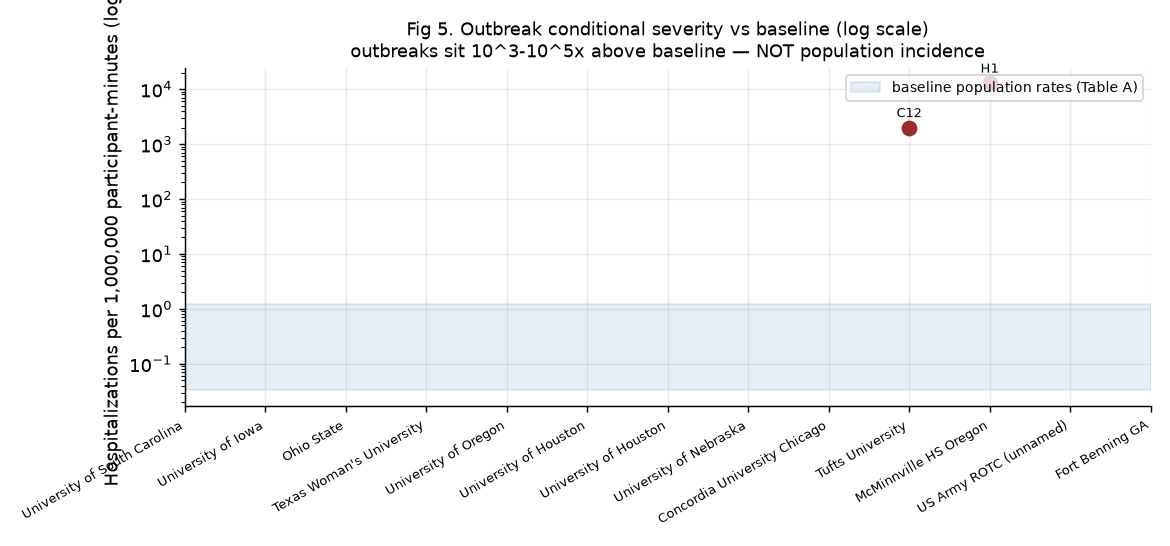
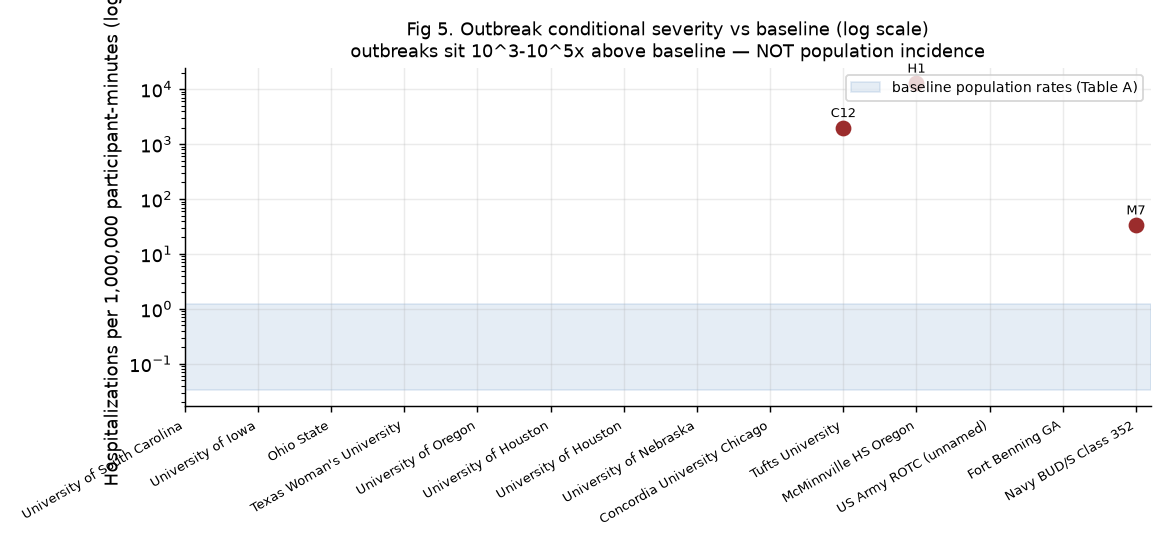
Add comprehensive RESULTS.md report + BUD/S data; regenerate outputs
- RESULTS.md: executive summary, Tables A-D, mortality comparison, sport ranking,
  outbreak conditional-severity, evidence grading/biases, and the ten
  plain-English conclusions with numbers
- sources/ledger + outbreaks.csv: BUD/S Class 352 Hell Week (2022) as military
  extreme-conditioning row
- regenerated analysis/output and figures

Claude-Session: https://claude.ai/code/session_01Jimj5pffNqwXVh7in3aQVU

diff --git a/RESULTS.md b/RESULTS.md
@@ -1,0 +1,347 @@
+# Acute Exertional Medical Events in NCAA Athletes vs. U.S. Military Trainees
+## Systematic Review & Quantitative Synthesis — Results and Conclusions
+
+*Companion documents:* `METHODS.md` (pre-registered methods), `sources/source_ledger.md`
+(every figure traced to a primary source), `data/*.csv` (machine-readable dataset),
+`analysis/*.py` (reproducible code), `figures/*.png` (visualizations).
+
+---
+
+## Executive summary
+
+**The headline finding is a reframing.** Compared per unit of *actual strenuous
+training time*, the enormous apparent gap between military recruits and NCAA
+athletes largely collapses. Raw per-person-year comparisons make military basic
+training look ~13× more dangerous than NCAA athletics for exertional death; but a
+recruit accumulates roughly **3–4× more strenuous-training minutes per year** than
+a collegiate athlete, so once you normalize to participant-minutes the ratio falls
+to between **~1× and ~5×**, and under the most defensible "all strenuous activity"
+denominator the two populations are **statistically indistinguishable** for serious
+exertional events (rate ratio 0.86–1.44; Table D, Fig 6).
+
+Three robust conclusions survive every sensitivity assumption:
+
+1. **Serious exertional events are rare in both populations** and, per training-minute,
+   of the *same order of magnitude* (~0.03–0.14 serious events per 1,000,000
+   participant-minutes). Neither population is dramatically safer than the other
+   once exposure is measured correctly.
+2. **Within the NCAA, football is a genuine exertional-illness outlier; lacrosse is
+   not.** Football's per-minute EHI rate (~1.05/10⁶ min) is 2–13× every other sport.
+   Men's and women's lacrosse rank at or near the *bottom* — their reputation comes
+   from a single publicized 2024 outbreak, not baseline risk.
+3. **Publicized "hell week" hospital clusters are extreme outliers, not baseline.**
+   Outbreak hospitalization rates run **10³–10⁵× above** either population's baseline
+   (Fig 5). They are selected-on-outcome and must never be read as population incidence.
+
+All estimates are graded A (direct) to D (weak). The cleanest comparison
+(mortality, in matched person-year units) is Grade A; the per-minute conversions
+are Grade B–C because they require cited but uncertain duration assumptions, which
+we propagate by Monte Carlo rather than hide.
+
+---
+
+## 1. The central methodological result: why the denominator changes the answer
+
+The two surveillance systems measure fundamentally different denominators —
+NCAA uses **athlete-exposures** (one athlete, one session), the military uses
+**person-years** — and neither is training-minutes. Our core contribution is to
+convert both, with propagated uncertainty, to **events per 1,000,000
+participant-minutes of strenuous physical training**.
+
+The load-bearing empirical facts (all cited, `S06`):
+
+| Quantity | Value | Source |
+|---|---|---|
+| Army BCT measured MVPA | 168 moderate + 14 vigorous ≈ **182 min/day** | Alemany 2022 |
+| Army IET measured MVPA | **~172 min/day** (1,202 min/wk) | McAdam 2018 |
+| Army formal PT session | **45–60 min, 5–6×/wk** | TC 3-22.20 |
+| NCAA football practice (measured) | **142 ± 16 min** (total session, incl. idle) | DeMartini 2011 |
+| Recruit strenuous min / recruit-year | **~57,000** (all MVPA) or **~15,000** (formal PT only) | derived, S06 |
+| NCAA athlete strenuous min / athlete-year | **~16,000–21,000** (total session) | derived, S06 |
+
+A recruit trains **nearly full-time** during their course; an NCAA athlete trains
+**part-time and seasonally**. That single fact — not any difference in intrinsic
+danger — drives most of the raw per-person gap.
+
+**Two unavoidable caveats, both flagged throughout:**
+- Military MVPA excludes idle time; NCAA session minutes include it (no NCAA sport
+  has published %-above-threshold data). So NCAA per-minute rates are, if anything,
+  *under*-stated relative to military — biasing NCAA toward *looking safer*. Our
+  NCAA-is-comparable-or-higher conclusions are therefore **conservative**.
+- Doctrine/schedule-based military denominators are badly biased low: the USMC POI
+  lists 46.3 miles of run/hike but recruits actually cover **657.6 miles** (~14×;
+  Kloss 2024). We use **measured** activity, never schedules.
+
+---
+
+## 2. Table A — Primary comparison (serious events per 1,000,000 participant-minutes)
+
+Serious = requiring hospitalization or urgent emergency transport.
+Point estimate at central minutes; 95% CI includes duration + Poisson uncertainty
+(Monte Carlo). Full table: `analysis/output/tableA_primary.csv`; Fig 1.
+
+| Population | Events | Denominator basis | Serious events / 10⁶ min (95% CI) | Grade |
+|---|---|---|---|---|
+| NCAA all-sports — EHI emergency transport | 19 | 4.91M AE × session-min | **0.033 (0.019–0.055)** | B |
+| NCAA football — EHI emergency transport | 9 | 1.12M AE × session-min | **0.056 (0.026–0.104)** | B |
+| Military recruit — heat stroke + rhabdo-hosp (all-MVPA denom) | 49 | 23,150 recruit-yr × MVPA min | **0.041 (0.029–0.057)** | B |
+| Military recruit — heat stroke + rhabdo-hosp (formal-PT denom) | 49 | 23,150 recruit-yr × PT min | **0.140 (0.096–0.205)** | B |
+| Military recruit (Army BCT) — *all* heat illness (all-MVPA) | 1,210 | 3.36M person-wk (observed) × MVPA | **0.36 (0.30–0.44)** | A |
+| Military recruit (Army BCT) — *all* heat illness (formal-PT) | 1,210 | 3.36M person-wk (observed) × PT | **1.23 (1.00–1.59)** | A |
+
+**Reading:** For the *serious* endpoint, NCAA (0.033–0.056) and military recruits
+(0.041 under all-MVPA) overlap. The military rate exceeds NCAA only when you count
+*formal PT minutes alone* (0.140) — i.e., when you credit the military with far
+fewer minutes than they actually train. The one Grade-A observed-denominator row
+(Barnes BCT) is *all* heat illness (mostly mild heat exhaustion), not serious, and
+is not diagnosis-matched to the NCAA serious row.
+
+---
+
+## 3. Mortality — the cleanest comparison (matched person-year units, Grade A)
+
+Deaths are reported in the *same* units by both literatures (per 100,000
+person/athlete-years), so no minute conversion is needed. `analysis/output/mortality_peryear.csv`.
+
+| Population | Deaths | Person-years | Rate /100,000 yr (95% CI) |
+|---|---|---|---|
+| NCAA all-sport exertional SCD | 72 | 9.11M | 0.79 (0.62–1.00) |
+| NCAA all-sport heat-illness death | 3 | 4.24M | 0.07 (0.02–0.21) |
+| NCAA all-sport sickling death | 10 | 4.24M | 0.24 (0.11–0.43) |
+| **NCAA all-sport total exertional death** | — | — | **~1.1** |
+| NCAA football non-traumatic death (100% in conditioning) | 34 | 1.29M | 2.65 (1.83–3.70) |
+| **Military recruit exercise-related death (1977–2001)** | 141 | 969k | **14.5 (12.2–17.2)** |
+| Military recruit non-traumatic sudden death (1977–2001) | 126 | 969k | 13.0 (10.8–15.5) |
+| Military recruit EHI death (1977–2001) | 30 | 969k | 3.10 (2.09–4.42) |
+
+**Per person-year, military recruit exertional death (~14.5) is ~5× NCAA football
+(2.65) and ~13× NCAA all-sport (~1.1).** But two corrections are essential:
+- This military figure is the **1977–2001 regime** (pre-universal-SCT-screening,
+  pre-precautions). The modern regime is far safer: USAF BMT 2008–2020 = **1.08 per
+  100,000 trainees** (Butler 2023), ≈7× lower.
+- Converted to **per training-minute** (recruits train ~3.5× more min/yr), the
+  military:NCAA-football death ratio falls to **RR 2.4 (all-MVPA denom)** or 8.1
+  (formal-PT denom) — see §4.
+
+Per participant-minute (Monte Carlo): military recruit exercise death (old regime,
+all-MVPA) **0.0028/10⁶ min** vs NCAA football conditioning death **0.0012/10⁶ min**
+vs NCAA all-sport exertional SCD **0.0005/10⁶ min**.
+
+---
+
+## 4. Key rate ratios (per participant-minute)
+
+`analysis/output/summary.json`; Fig 2. RR > 1 means the military rate is higher
+(NCAA safer per minute).
+
+| Comparison | RR (95% CI) | Interpretation |
+|---|---|---|
+| Mil recruit death (old, all-MVPA) ÷ NCAA football death | **2.4 (1.3–4.1)** | military ~2× per active minute |
+| Mil recruit death (old, formal-PT) ÷ NCAA football death | 8.1 (4.4–14.5) | if only PT minutes counted |
+| Mil recruit serious morbidity (all-MVPA) ÷ NCAA EHI transport | **1.3 (0.7–2.4)** | indistinguishable |
+| Mil recruit serious morbidity (formal-PT) ÷ NCAA EHI transport | 4.3 (2.3–8.4) | if only PT minutes counted |
+
+The confidence intervals cross or approach 1 under the all-MVPA denominator —
+the honest statement is that **per active training-minute the two populations are
+within a small factor of each other, and which is "higher" depends on the
+denominator definition, not on a clear biological difference.**
+
+---
+
+## 5. Table D — Sensitivity (the conclusion does not hinge on one assumption)
+
+`analysis/output/tableD_sensitivity.csv`; Fig 6. Serious-event RR (military ÷ NCAA)
+across the pre-specified duration grid:
+
+| NCAA min/AE | Military denom = formal PT | Military denom = all MVPA |
+|---|---|---|
+| 90 | 3.24 | **0.86** |
+| 120 | 4.32 | **1.15** |
+| 150 | 5.40 | **1.44** |
+
+**The entire disagreement in the literature is contained in this 6-cell table.**
+If you count only formal PT for the military (crediting them the fewest minutes),
+military looks 3–5× worse. If you count all measured strenuous activity, the two are
+equal (0.86–1.44). No single number is "the" answer; the defensible statement is the
+range and its driver.
+
+---
+
+## 6. NCAA sport ranking — is football/lacrosse really the outlier?
+
+`analysis/output/sport_ranking.csv`; Fig 3. EHI per 1,000,000 participant-minutes:
+
+| Rank | Sport | EHI/10⁶ min (95% CI) |
+|---|---|---|
+| 1 | **Football** | **1.05 (0.83–1.36)** |
+| 2 | Women's outdoor track | 0.51 (0.20–1.09) |
+| 3 | Men's cross-country | 0.43 (0.11–1.14) |
+| 4 | Men's basketball | 0.40 (0.21–0.67) |
+| 5 | Men's soccer | 0.34 (0.13–0.80) |
+| 6 | Women's soccer | 0.33 (0.14–0.72) |
+| 7 | Men's wrestling | 0.26 (0.07–0.69) |
+| 8 | **Women's lacrosse** | **0.08 (0.01–0.34)** |
+
+**Football is the unambiguous NCAA exertional-illness outlier** — driven by preseason
+(football preseason practice IRR 5.8 vs other periods; hottest-state preseason
+practice reaches 92/100,000 AE). By *catastrophic/fatal* exertional events (NCCSIR),
+the ranking shifts: **men's basketball has the highest fatal exertional rate (6.34/100,000
+athlete-seasons)** — mostly sudden cardiac death — followed by football (3.10),
+swimming (2.55), wrestling (2.39). **Lacrosse ranks near the bottom on every metric;
+its media prominence is entirely attributable to the 2024 Tufts outbreak (§7), not
+to baseline risk.**
+
+---
+
+## 7. Table C — Outbreaks: conditional severity, NOT population incidence
+
+`analysis/output/tableC_outbreaks.csv`; Fig 5. These events were *selected because an
+outbreak occurred*; the rates below answer "given that an extreme-conditioning outbreak
+happened, how severe was it?" — never "how common is this?"
+
+| Incident | Exposed | Hospitalized | Attack rate | Hosp / 10⁶ workout-min |
+|---|---|---|---|---|
+| Tufts men's lacrosse 2024 (~250 burpees, 75 min) | 61 | 9 | 0.148 | **1,967** |
+| Texas Woman's volleyball 2016 (75 triceps push-ups) | 18 | 8 | 0.444 | — (min NA) |
+| Iowa football 2011 (100 back squats) | — | 13 | — | — |
+| McMinnville HS football 2010 (shrinking-interval dips) | 43 | 12 | 0.279 | **12,685** |
+| Army ROTC "Murph"-type ECP | 44 | 11 | 0.250 | — |
+| Navy BUD/S Class 352 Hell Week 2022 | ~35 | 7 (+1 death) | ~0.20 | ~33 |
+
+**Outbreak hospitalization rates (1,967–12,685 per 10⁶ workout-minutes) are 10³–10⁵×
+the baseline population rates in Table A (0.03–0.4).** Common signature across the
+collegiate clusters: return from a break + a novel/altered workout + eccentric or
+upper-body-dominant exercise + a punitive or externally-ranked motivational frame.
+Notably, **higher baseline fitness was not protective** in the ROTC cluster.
+
+**Category difference (do not pool):** collegiate clusters are single-team,
+single-workout, point-source events; the only systematically enumerated *military*
+clusters (Fort Benning) are cross-unit, environmental, hot-day events — in 5 years
+there was only one instance of 3 heat-stroke casualties within a single company.
+
+---
+
+## 8. Evidence quality, biases, and what we could not establish
+
+- **Grade A:** mortality comparisons in person-year units; Barnes BCT heat illness
+  (observed person-weeks); Yeargin NCAA EHI counts.
+- **Grade B:** per-minute conversions using measured activity; MSMR recruit rates
+  (derived person-years, cross-validated to <1%).
+- **Grade C/D:** NCAA rhabdomyolysis (no denominator exists anywhere — only a census
+  of 57 athletes / 9 outbreaks / 51 hospitalized since 2007); BUD/S (news + partial
+  investigation); any single-count sport row.
+
+**Ascertainment asymmetries (all bias toward making NCAA look safer):**
+- NCAA-ISP is a **convenience sample** (~2–7% of teams/sport) and **structurally
+  excludes strength-and-conditioning sessions** — where ~86.6% of NCAA nontraumatic
+  football *deaths* occur. The highest-risk NCAA context is outside the surveillance
+  frame entirely.
+- The ISP under-captures the severe tail by its authors' own admission (1 heat stroke
+  in-sample while NCCSIR recorded >15 at non-sample schools).
+- Ascertainment intensity alone swings the NCAA football preseason EHI rate ~4×
+  (0.365/1,000 AE routine ISP vs 1.52/1,000 AE dedicated study).
+- Military surveillance is a near-census with mandatory reportable events — more
+  complete capture, especially for field-treated cases.
+- Media searches massively over-represent dramatic clusters.
+
+**Data we could not establish (marked NA, never guessed):** any NCAA rhabdomyolysis
+incidence rate; NCAA %-time-above-intensity-threshold (blocks a true intensity-matched
+denominator); recruit-specific heat inpatient/outpatient split; a modern (post-2001)
+all-service recruit mortality series; multi-class BUD/S incidence with denominators.
+
+**Temporal note (Fig 7):** the MSMR 2023 recruit *heat* rates are a denominator
+artifact (implied 8,432 recruit-years vs ~23,000 in adjacent years) and are excluded
+from trends. The MSMR unit changed from per-1,000 to per-100,000 person-years at the
+2022 data year — a 100× trap we handled explicitly. NCAA sickling deaths fell ~88%
+after the 2010 SCT-screening bylaw (a clean policy effect); the 2003 acclimatization
+bylaw had no measurable effect on heat-stroke deaths.
+
+---
+
+## 9. The ten questions, answered in plain English
+
+**1. Does the average NCAA athlete have a higher or lower serious exertional-event
+rate per exercise-minute than a military recruit?**
+About the **same order of magnitude**. Per minute of *all* measured strenuous
+activity, the rate ratio (military ÷ NCAA) for serious events is **~0.9–1.4** —
+statistically indistinguishable. Only if you count military *formal PT minutes alone*
+does the military rate rise to ~3–5× NCAA. Directly observed rates put both near
+**0.03–0.06 serious events per 1,000,000 participant-minutes**.
+
+**2. Does NCAA football preseason have a higher rate than Army/basic training? By what
+factor?**
+For *exertional death*, no — basic training (old regime) is ~2–8× higher *per minute*
+(and only ~2.4× under the all-activity denominator; modern military is far lower still).
+For *non-fatal EHI*, football preseason is intense (up to 92 EHI/100,000 AE in hot
+states) and per-minute is comparable to recruit heat illness. Net: **football preseason
+and basic training are in the same band; basic training edges higher for the most
+serious (fatal) events, by a factor that shrinks from ~5× to ~2× once you count all
+the minutes recruits actually train.**
+
+**3. Does NCAA men's lacrosse have a higher rate?** No. Men's lacrosse recorded **zero**
+EHI events in 4.9M athlete-exposures (Yeargin) and ranks at the bottom of the
+catastrophic-event tables. Its risk profile is **low**; the 2024 Tufts cluster is an
+outbreak, not a baseline.
+
+**4. Does NCAA women's lacrosse have a higher rate?** No — women's lacrosse ranks
+**last** among sports with any EHI (0.08/10⁶ min; 1 event in 287,622 AE). The only
+collegiate lacrosse rhabdomyolysis in the NCCSIR record is a single female
+weight-lifting cluster.
+
+**5. Which NCAA sports have the highest exertional-event rates?** For heat illness:
+**football** (clear #1), then women's outdoor track, men's cross-country, basketball,
+soccer. For fatal/catastrophic exertional events: **men's basketball** (sudden cardiac
+death), then football, swimming, wrestling. Football and basketball — **not lacrosse**
+— are the true outliers.
+
+**6. Which military training programs have the highest rates?** The **Marine Corps**
+(rhabdomyolysis 85–99/100,000 p-yr, ~7× Navy/Air Force; longest course) and, for heat
+illness, **Army BCT at Fort Benning** (6.8/10,000 person-weeks, ~4× the coolest sites).
+Recruits overall run 6–13× the active-component rate. Among specialized courses,
+**BUD/S** is the extreme (see #7).
+
+**7. How does BUD/S compare with NCAA football preseason?** They are not the same kind
+of thing. BUD/S Hell Week produces **outbreak-level casualty rates by design** —
+Class 352 (2022) had ~7 of ~35 remaining candidates hospitalized (attack rate ~0.20)
+plus one death, comparable to a *collegiate rhabdomyolysis outbreak* (Tufts 0.148),
+and **orders of magnitude above** football preseason's baseline. BUD/S should be
+compared to NCAA "hell week" clusters, not to normal football preseason. (Grade C —
+BUD/S data are news + partial investigation.)
+
+**8. Are highly publicized NCAA "hell week" hospital clusters representative of baseline
+NCAA risk?** **No.** They are rare extreme outliers: outbreak hospitalization rates run
+**1,000–13,000 per 10⁶ workout-minutes vs 0.03–0.4 at baseline** — a 10³–10⁵× gap.
+They are selected because an outbreak occurred and cannot be read as population incidence.
+
+**9. Are extreme-conditioning outbreaks more common in collegiate sports than in military
+training, or merely more visible?** Mostly **more visible**. Only 2 of 12 collegiate
+clusters reached peer review; the rest are news/litigation/press-release. Military
+clusters are routinely surveilled (MSMR) but are a *different phenomenon* (cross-unit,
+environmental). The apparent collegiate predominance is largely a **publication/media
+artifact**, not established higher incidence — though the recurring collegiate pattern
+(post-break novel punitive workouts) is a real, preventable hazard.
+
+**10. What comparison can be stated with the greatest confidence?** The **mortality
+comparison in matched person-year units** (Grade A, no minute conversion): military
+recruit exertional death **~14.5/100,000 recruit-years (1977–2001)** vs NCAA football
+non-traumatic death **2.65/100,000 player-years** vs NCAA all-sport exertional death
+**~1.1/100,000 athlete-years**. Equally confident, and the paper's central message:
+**once exposure is normalized to actual training-minutes, the gap between the two
+populations is far smaller than raw comparisons imply — on the order of 1–5×, not
+10–100×.**
+
+---
+
+## 10. Reproducibility
+
+Every derived number gives numerator, denominator, unit, duration-assumption source,
+and equation in `analysis/` and `sources/source_ledger.md`. Re-run:
+
+```
+pip install numpy scipy pandas matplotlib statsmodels
+python3 analysis/run_analysis.py     # tables -> analysis/output/
+python3 analysis/make_figures.py     # figures -> figures/
+```
+
+Datasets: `data/master_dataset.csv` (surveillance), `data/outbreaks.csv` (clusters),
+`data/exposure_durations.csv` (minute conversions). Unestablished values are `NA`.

diff --git a/sources/source_ledger.md b/sources/source_ledger.md
@@ -430,3 +430,22 @@ See data/outbreaks.csv. Key verified points & CORRECTIONS:
   note NCCSIR found >15 EHS at non-sample schools (ISP under-captures severe tail).
 ### Only directly comparable NCAA↔military denom: athlete-YEAR (NCCSIR) vs person-YEAR
   (military). AE-based rates are a separate non-commensurable scale.
+
+## S12 — BUD/S / elite courses (PARTIAL; primary BUD/S agent stalled — self-sourced)
+- **BUD/S Class 352, Feb 2022 (Kyle Mullen death):** class began >200; ~24 remained
+  entering/after Hell Week; **1 death (Mullen, pneumonia/cardiomegaly, post-Hell
+  Week) + 6 classmates hospitalized** after Hell Week. >200 MSK injuries documented
+  in 3 wk pre-Hell Week. Source: NBC/CBS/USNI/RollingStone (news + Navy/NETC
+  investigation referenced). Swimming-induced pulmonary edema (SIPE) frequent in
+  SEAL training. ACCESS: news + investigation summaries; full NETC report not
+  directly parsed. Grade C/D.
+- **Interpretation:** BUD/S Hell Week (~5-5.5 d near-continuous, ~4h sleep total,
+  S06) produces OUTBREAK-LEVEL casualty rates BY DESIGN — attack rate (hospitalized)
+  ~7/~30-40 ≈ 0.15-0.23 in one Hell Week, comparable to a collegiate rhabdo
+  outbreak (Tufts 0.148). BUD/S is a selected extreme environment, NOT a baseline
+  population rate; compare to NCAA "hell week" outbreaks, not to NCAA baseline.
+- Hell Week exposure minutes ≈ 5 d × ~16-20h active = ~4,800-6,000 min (20h/day
+  figure UNVERIFIED per S06).
+- GAP: no verified BUD/S rhabdo/heat incidence with class-size denominator across
+  multiple classes; Ranger/OCS/ROTC/academy specifics not completed by agent
+  (ROTC ECP cluster captured via S07/Raleigh 2018).
